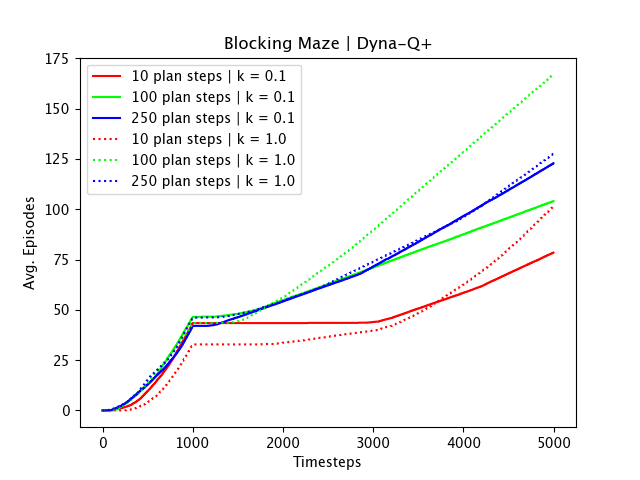
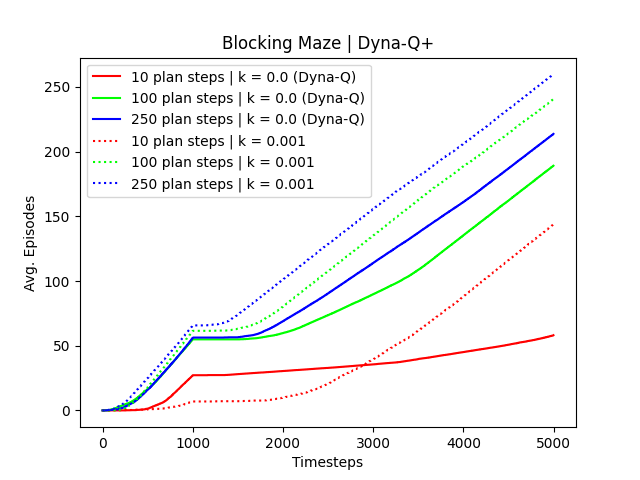
dyna q plus workign

diff --git a/code/lib/planning/dyna_q.py b/code/lib/planning/dyna_q.py
@@ -6,7 +6,7 @@ Implementation of Dyna-Q algorithms
 '''
 
 import random
-from typing import Dict
+from typing import Dict, Tuple
 import numpy as np
 
 from gym import Env
@@ -15,39 +15,6 @@ from collections import defaultdict
 from tqdm import trange
 from lib.utils.policy import create_epsilon_policy
 
-
-def dyna_q(
-        env: Env,
-        alpha: float,
-        epsilon: float,
-        gamma: float,
-        n_plan_steps: int,
-        n_timesteps: int) -> Dict:
-    Q = defaultdict(lambda: np.zeros(env.action_space.n))
-    M = defaultdict(lambda: {'r': 0, 's': (0, 0)})
-
-    sa_samples = set()
-    policy = create_epsilon_policy(Q, epsilon)
-    s = env.reset()
-    n_eps = 0
-    timestep_stats = np.zeros(n_timesteps)
-    for t in trange(n_timesteps, desc='Timestep', leave=False):
-        a = policy(s)
-        sa_samples.add((s, a))
-        s_next, r, done, _ = env.step(a)
-        Q[s][a] = Q[s][a] + (alpha * (r + (gamma * Q[s_next][np.argmax(Q[s_next])]) - Q[s][a]))
-        M[s + (a,)] = {'r': r, 's': s_next}
-        for _ in range(n_plan_steps):
-            s_sample, a_sample = random.sample(sa_samples, 1)[0]
-            r_prime, s_prime = M[s_sample + (a_sample,)]['r'], M[s_sample + (a_sample,)]['s']
-            Q[s_sample][a_sample] = Q[s_sample][a_sample] + \
-                (alpha * (r_prime + (gamma * Q[s_prime][np.argmax(Q[s_prime])]) - Q[s_sample][a_sample]))
-        if done:
-            n_eps += 1
-        timestep_stats[t] = n_eps
-        s = s_next
-
-    return {'Q': Q, 'M': M, 'stats': timestep_stats}
 
 def dyna_q_plus(
         env: Env,
@@ -58,31 +25,63 @@ def dyna_q_plus(
         n_plan_steps: int,
         n_timesteps: int) -> Dict:
     Q = defaultdict(lambda: np.zeros(env.action_space.n))
-    N = defaultdict(lambda: np.zeros(env.action_space.n))
-    M = defaultdict(lambda: {'r': 0, 's': None})
+    M = defaultdict(lambda: [(0, None, 0) for _ in range(env.action_space.n)])
 
+    policy = create_epsilon_policy(Q, epsilon)
+    s = env.reset()
+    n_eps = 0
+    timestep_stats = np.zeros(n_timesteps)
     sa_samples = set()
+    for t in trange(n_timesteps, desc='Timestep', leave=False):
+        a = policy(s)
+        s_next, r, done, _ = env.step(a)
+        Q[s][a] = Q[s][a] + (alpha * (r + (gamma * Q[s_next][np.argmax(Q[s_next])]) - Q[s][a]))
+        M[s][a] = (r, s_next, t)
+        sa_samples.add((s, a))
+
+        for _ in range(n_plan_steps):
+            # s_sample, a_sample = random.sample(sa_samples, 1)[0]
+            s_sample = env.observation_space.sample()
+            a_sample = env.action_space.sample()
+            r_prime, s_prime, t_prime = M[s_sample][a_sample]
+            if s_prime is None:
+                s_prime = s_sample
+            tau = t - t_prime
+            r_bonus = r_prime + (k * np.sqrt(tau) if tau > 1 else 0)
+            Q[s_sample][a_sample] = Q[s_sample][a_sample] + \
+                (alpha * (r_bonus + (gamma * Q[s_prime][np.argmax(Q[s_prime])]) - Q[s_sample][a_sample]))
+        if done:
+            n_eps += 1
+        timestep_stats[t] = n_eps
+        s = s_next
+
+    return {'Q': Q, 'M': M, 'stats': timestep_stats}
+
+
+def stochastic_dyna_q(env: Env,
+        alpha: float,
+        epsilon: float,
+        gamma: float,
+        n_plan_steps: int,
+        n_timesteps: int) -> Dict:
+    def update_model(M: Dict, s: Tuple[int, int], a: int, s_next: Tuple[int, int]) -> None:
+        model = M[s + (a,)]
+        curr_r, curr_s, curr_n = model['r'], model['s'], model['n']
+    Q = defaultdict(lambda: np.zeros(env.action_space.n))
+    M = defaultdict(lambda: {'r': 0, 's': None, 'n': 0})
+
     policy = create_epsilon_policy(Q, epsilon)
     s = env.reset()
     n_eps = 0
     timestep_stats = np.zeros(n_timesteps)
     for t in trange(n_timesteps, desc='Timestep', leave=False):
         a = policy(s)
-        sa_samples.add(s)
         s_next, r, done, _ = env.step(a)
-
-        curr_t = N[s][a]
-        N[s][a] = t
-
-        tau = t - curr_t
-        r_bonus = r + (k * np.sqrt(tau + .1e-100))
-
-        Q[s][a] = Q[s][a] + (alpha * (r_bonus + (gamma * Q[s_next][np.argmax(Q[s_next])]) - Q[s][a]))
-        M[s + (a,)] = {'r': r_bonus, 's': s_next}
-
+        Q[s][a] = Q[s][a] + (alpha * (r + (gamma * Q[s_next][np.argmax(Q[s_next])]) - Q[s][a]))
+        update_model(M, s, a, r, s_next)
         for _ in range(n_plan_steps):
-            s_sample = random.sample(sa_samples, 1)[0]
-            a_sample = random.sample(range(env.action_space.n), 1)[0]
+            s_sample = env.observation_space.sample()
+            a_sample = env.action_space.sample()
             r_prime, s_prime = M[s_sample + (a_sample,)]['r'], M[s_sample + (a_sample,)]['s']
             if s_prime is None:
                 s_prime = s_sample

diff --git a/code/src/planning/run_shortcut_maze.py b/code/src/planning/run_shortcut_maze.py
@@ -10,7 +10,7 @@ import matplotlib.pyplot as plt
 
 from tqdm import trange
 from lib.planning.dyna_q import dyna_q_plus
-from lib.planning.mazes import Maze, blocking_maze_end, blocking_maze_start
+from lib.planning.mazes import Maze, shortcut_maze_end, shortcut_maze_start
 
 
 TOGGLE_STEP: int = 1000
@@ -21,14 +21,14 @@ ALPHA: float = .1
 EPSILON: float = .1
 
 
-def run_blocking_dynaq_plus():
+def run_shortcut_dynaq_plus():
     print('Dyna-Q+')
     env = Maze(
-        blocking_maze_start(),
-        blocking_maze_end(),
+        shortcut_maze_start(),
+        shortcut_maze_end(),
         TOGGLE_STEP)
     n_plan_steps = [10, 100, 250]
-    k_vals = [.0, 1e-3]
+    k_vals = [0, 1e-3]
     styles = ['solid', 'dotted']
     colors = [
         (1., .0, .0),
@@ -60,7 +60,7 @@ def run_blocking_dynaq_plus():
                 color=color,
                 linestyle=style)
 
-    plt.title('Blocking Maze | Dyna-Q+')
+    plt.title('Shortcut Maze | Dyna-Q+')
     plt.xlabel('Timesteps')
     plt.ylabel('Avg. Episodes')
     plt.legend()
@@ -68,7 +68,7 @@ def run_blocking_dynaq_plus():
 
 
 def main():
-    run_blocking_dynaq_plus()
+    run_shortcut_dynaq_plus()
 
 
 if __name__ == '__main__':

diff --git a/code/lib/planning/mazes.py b/code/lib/planning/mazes.py
@@ -110,3 +110,19 @@ def blocking_maze_end() -> np.ndarray:
     print('End Maze:')
     print(maze)
     return maze
+
+
+def shortcut_maze_start() -> np.ndarray:
+    maze = np.zeros((6, 9))
+    maze[3, 1:9] = Maze.WALL
+    print('Start Maze:')
+    print(maze)
+    return maze
+
+
+def shortcut_maze_end() -> np.ndarray:
+    maze = np.zeros((6, 9))
+    maze[3, 1:8] = Maze.WALL
+    print('End Maze:')
+    print(maze)
+    return maze
